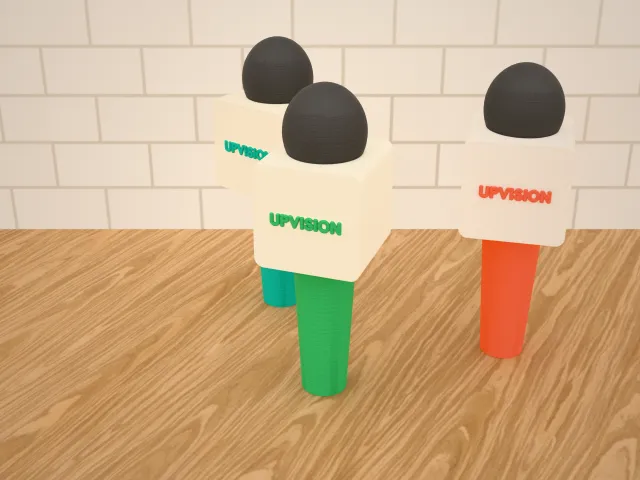
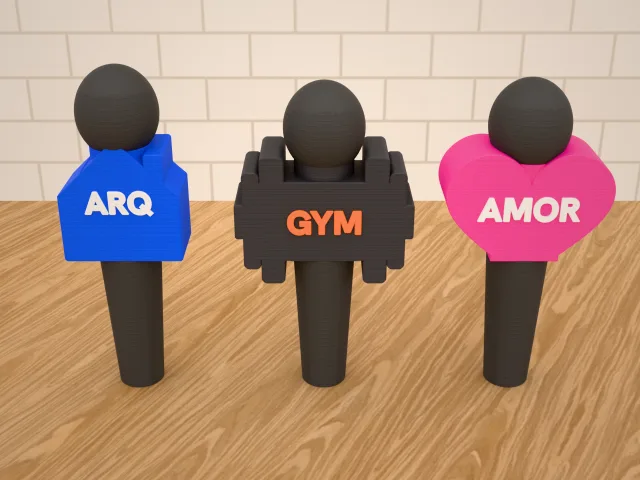
feat: foto do cartão da canopla com 3 temas coloridos: casa, halter e coração (#274)

diff --git a/src/thumbs/photo/models.ts b/src/thumbs/photo/models.ts
@@ -21,7 +21,7 @@ import { AZIMUTH_DEG, type PhotoItem, type PhotoScene } from "./render";
  * As cenas da foto realista (#251, rodada 2): cada peça montada como se usa e em 3 a 4 cópias com nomes e cores
  * diferentes, espalhadas na mesa. `bevel` arredonda as quinas (0,4 mm) antes de montar a cena.
  */
-export const PHOTO_IDS = ["keychain", "organizer", "medal", "pix", "thermo", "vessel", "pixel"] as const;
+export const PHOTO_IDS = ["keychain", "organizer", "medal", "pix", "thermo", "vessel", "pixel", "micHolder"] as const;
 export type PhotoId = (typeof PHOTO_IDS)[number];
 export type SceneOpts = { bevel?: boolean };
 
@@ -250,6 +250,25 @@ async function pixels(o: SceneOpts): Promise<PhotoScene> {
   return sceneOf(placed, { view: "top", darkTable: true });
 }
 
+// canopla (#274): três temas lado a lado, numa fila virada para a câmera, para mostrar que o meio muda com a profissão
+const MIC_THEMES = [
+  { shape: "house", width: 56, text: "ARQ", bodyColor: "#1f4fd1", artColor: "#ffffff" },
+  { shape: "dumbbell", width: 84, text: "GYM", bodyColor: "#1c1c1e", artColor: "#f97316" },
+  { shape: "heart", width: 78, text: "AMOR", bodyColor: "#ec4899", artColor: "#ffffff" },
+];
+const MIC_GAP_MM = 96;
+
+async function micHolders(o: SceneOpts): Promise<PhotoScene> {
+  const a = (AZIMUTH_DEG * Math.PI) / 180;
+  const placed: Placed[] = [];
+  for (const [i, t] of [1, 0, 2].map((k) => [k, MIC_THEMES[k]] as const)) {
+    const models = await buildModels("micHolder", { ...t, front: "text", handleColor: "#2b2b2b" });
+    const d = (i - 1) * MIC_GAP_MM;
+    placed.push(place(await maybeBevel(grounded(models), o), [], { x: d * Math.cos(a), y: d * Math.sin(a), rotZ: AZIMUTH_DEG }));
+  }
+  return sceneOf(placed, { heroPad: 0.12 });
+}
+
 export async function photoScene(id: PhotoId, o: SceneOpts = {}): Promise<PhotoScene> {
   switch (id) {
     case "keychain":
@@ -266,6 +285,8 @@ export async function photoScene(id: PhotoId, o: SceneOpts = {}): Promise<PhotoS
       return vessels(o);
     case "pixel":
       return pixels(o);
+    case "micHolder":
+      return micHolders(o);
   }
 }
 

diff --git a/tests/e2e/photos.e2e.ts b/tests/e2e/photos.e2e.ts
@@ -30,7 +30,7 @@ test("fotos realistas dos modelos", async ({ page }) => {
     warm: Number(process.env.PHOTO_WARM ?? 1),
     extra: JSON.parse(process.env.PHOTO_OPTS ?? "{}"),
     all,
-    special: ["keychain", "organizer", "medal", "pix", "thermo", "vessel", "pixel"],
+    special: ["keychain", "organizer", "medal", "pix", "thermo", "vessel", "pixel", "micHolder"],
   };
   const tag = process.env.PHOTO_TAG ?? `${arg.filament}-${arg.backdrop}`;
   const times: Record<string, unknown> = {};
